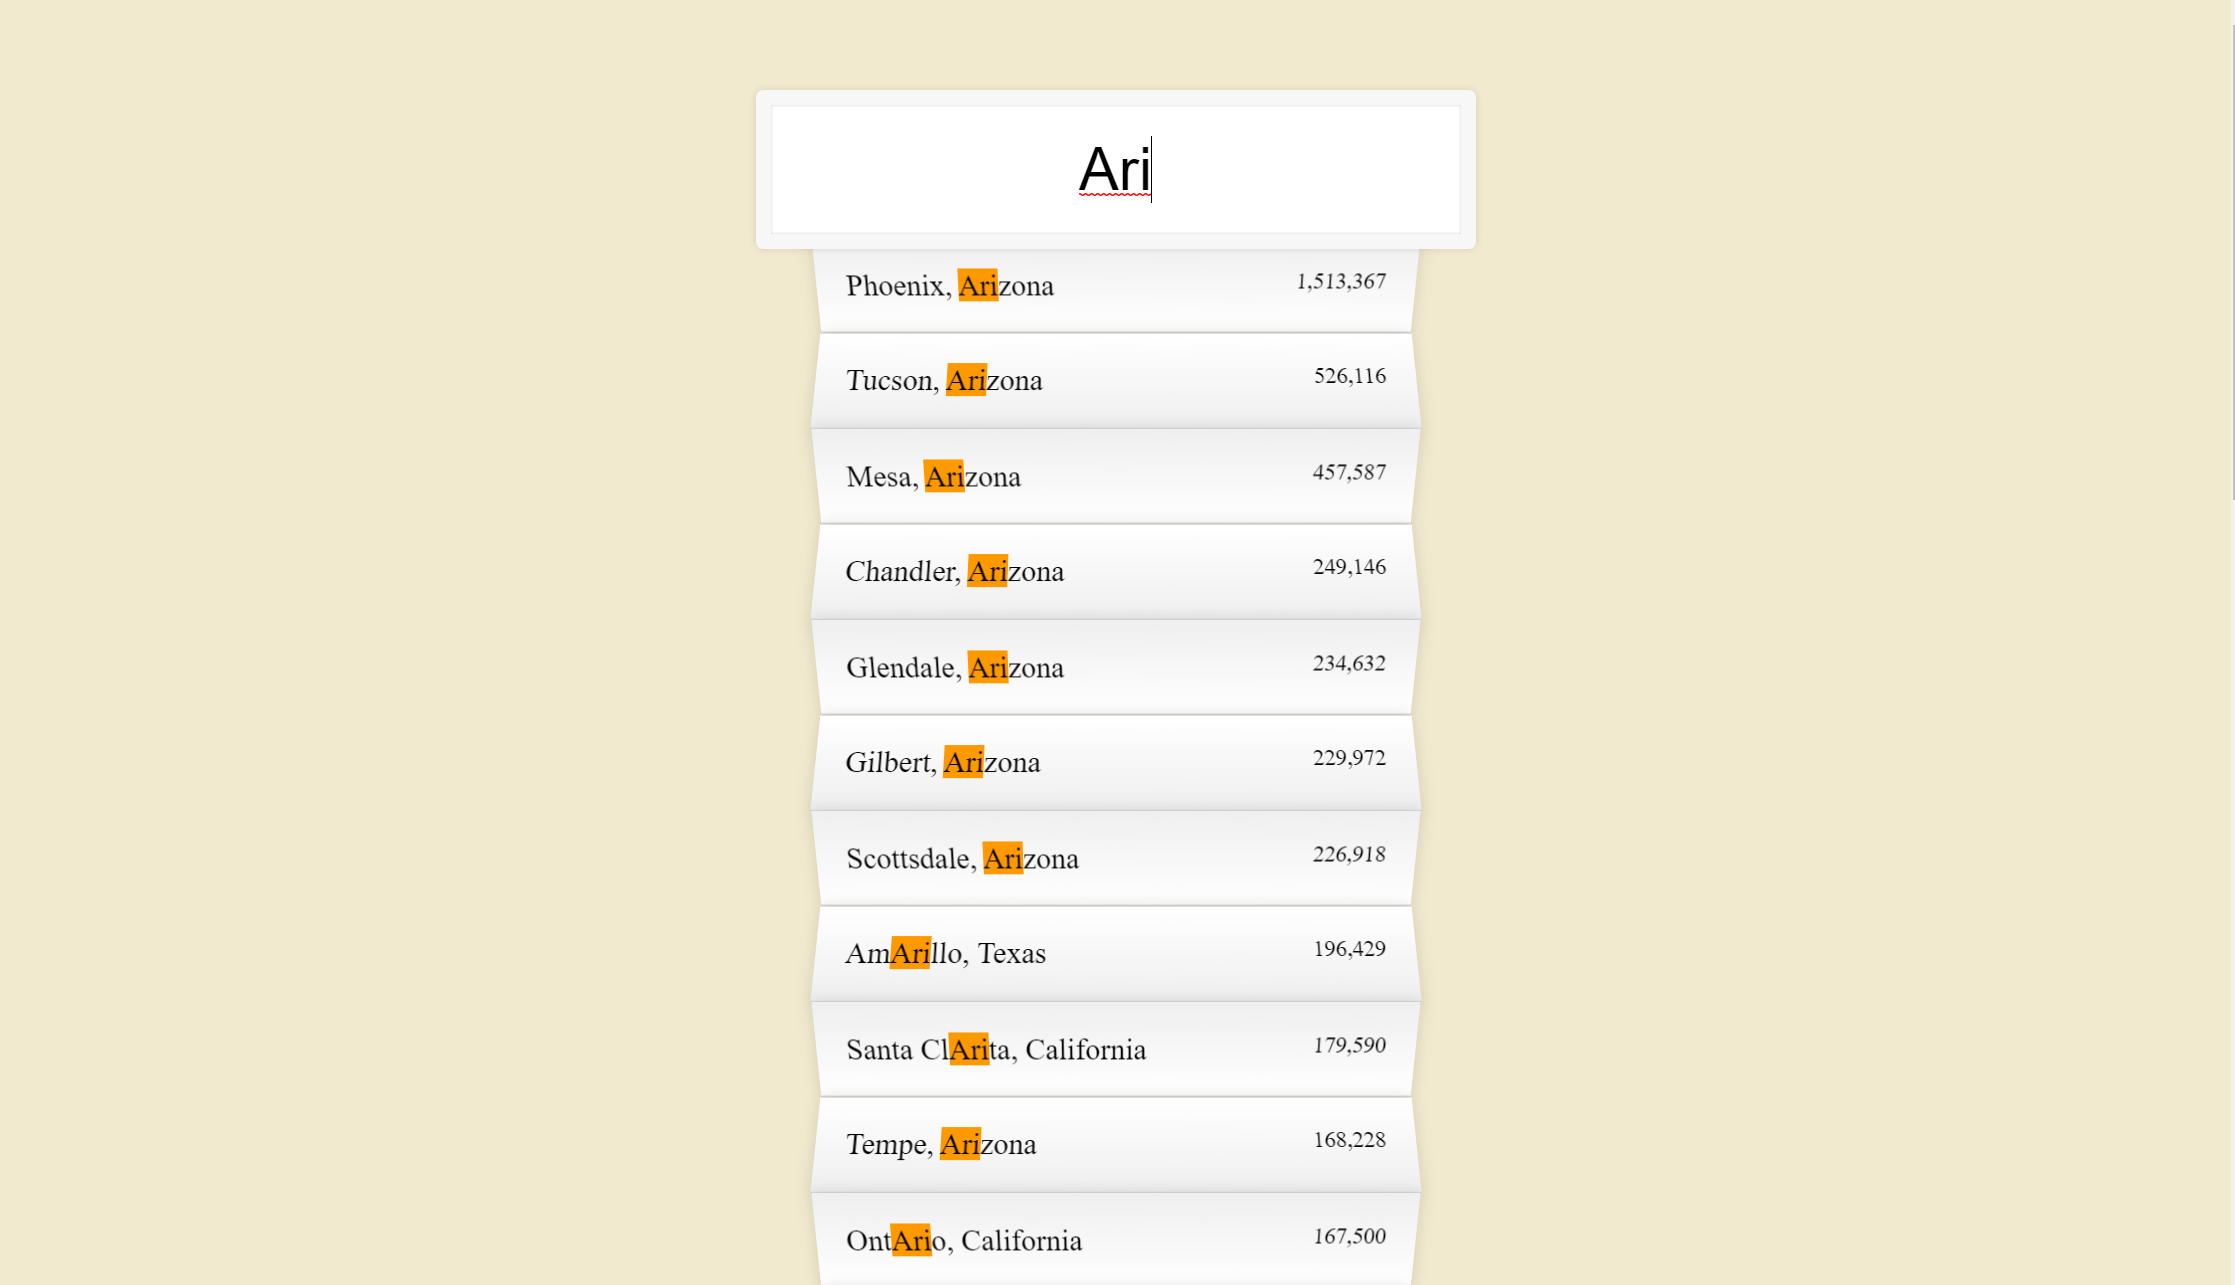
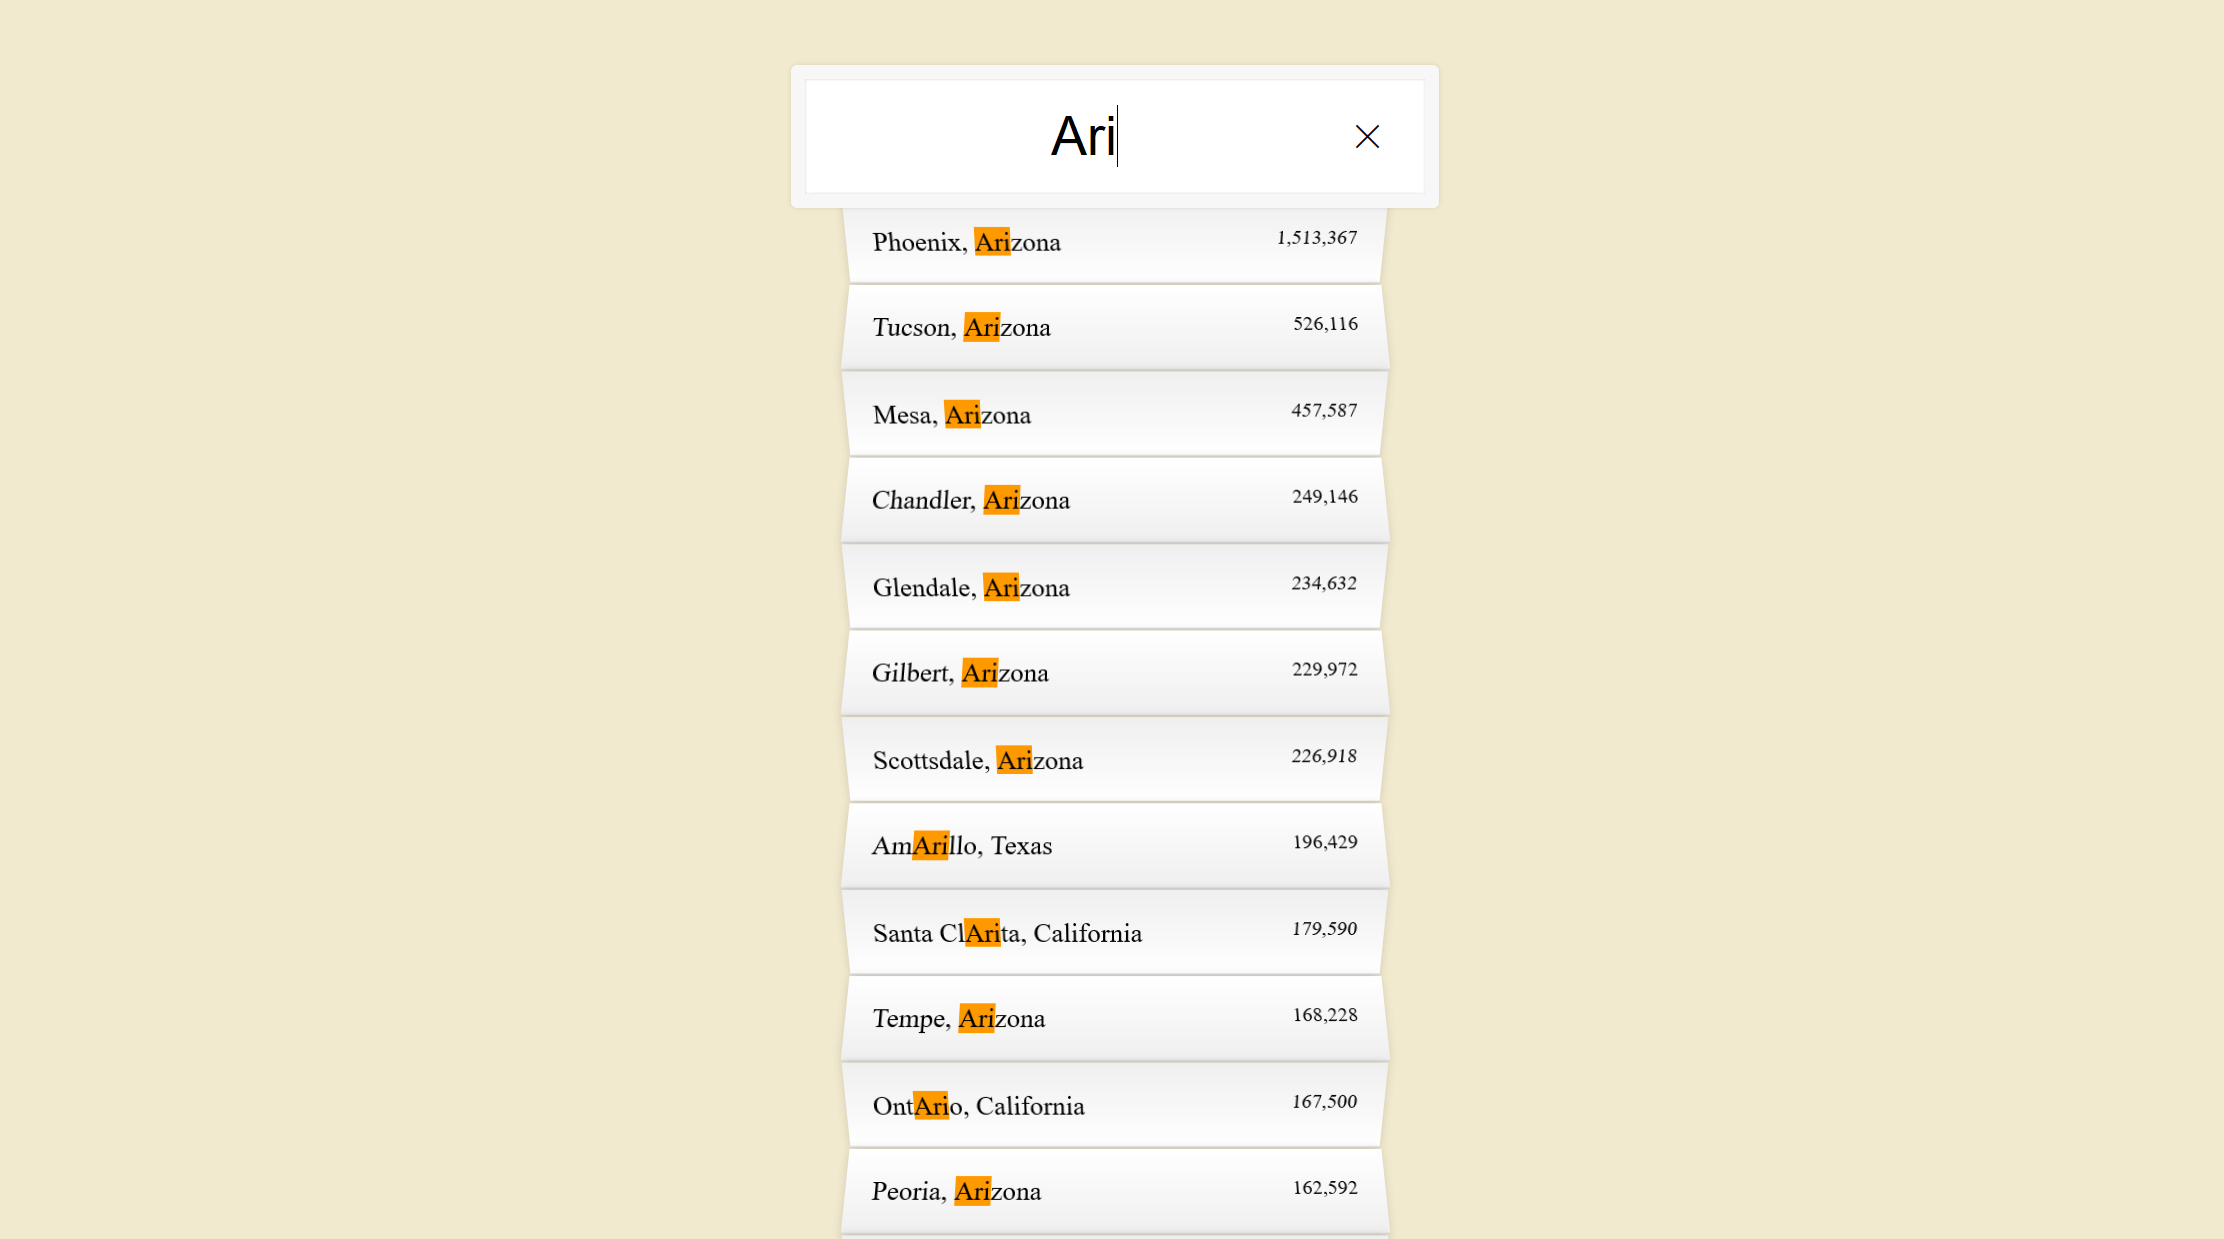
Finished Day6

Changed region(s): [[0.3103, 0.0307, 0.6826, 1.0], [0.9928, 0.0, 1.0, 1.0]]

diff --git a/index.html b/index.html
@@ -97,8 +97,8 @@
             <h4 class="card-title">Day 6:</h4>
             <h6 class="card-subtitle mb-2 text-muted">Type Ahead</h6>
             <p class="card-text">Practiced Fetch function to get information from a JSON file and manipulate it to be searchable</p>
-              <a href="05-Flex Panel Gallery/05.html" target="_blank" class="btn btn-main">Demo</a>
-              <a href="https://github.com/Qiugu-He/Qiugu-He.github.io/blob/master/05-Flex%20Panel%20Gallery/05.html" target="_blank" class="btn btn-main">Source</a>
+              <a href="06-Type Ahead/06.html" target="_blank" class="btn btn-main">Demo</a>
+              <a href="#" target="_blank" class="btn btn-main">Source</a>
             </div>
           </div>
       </div>
